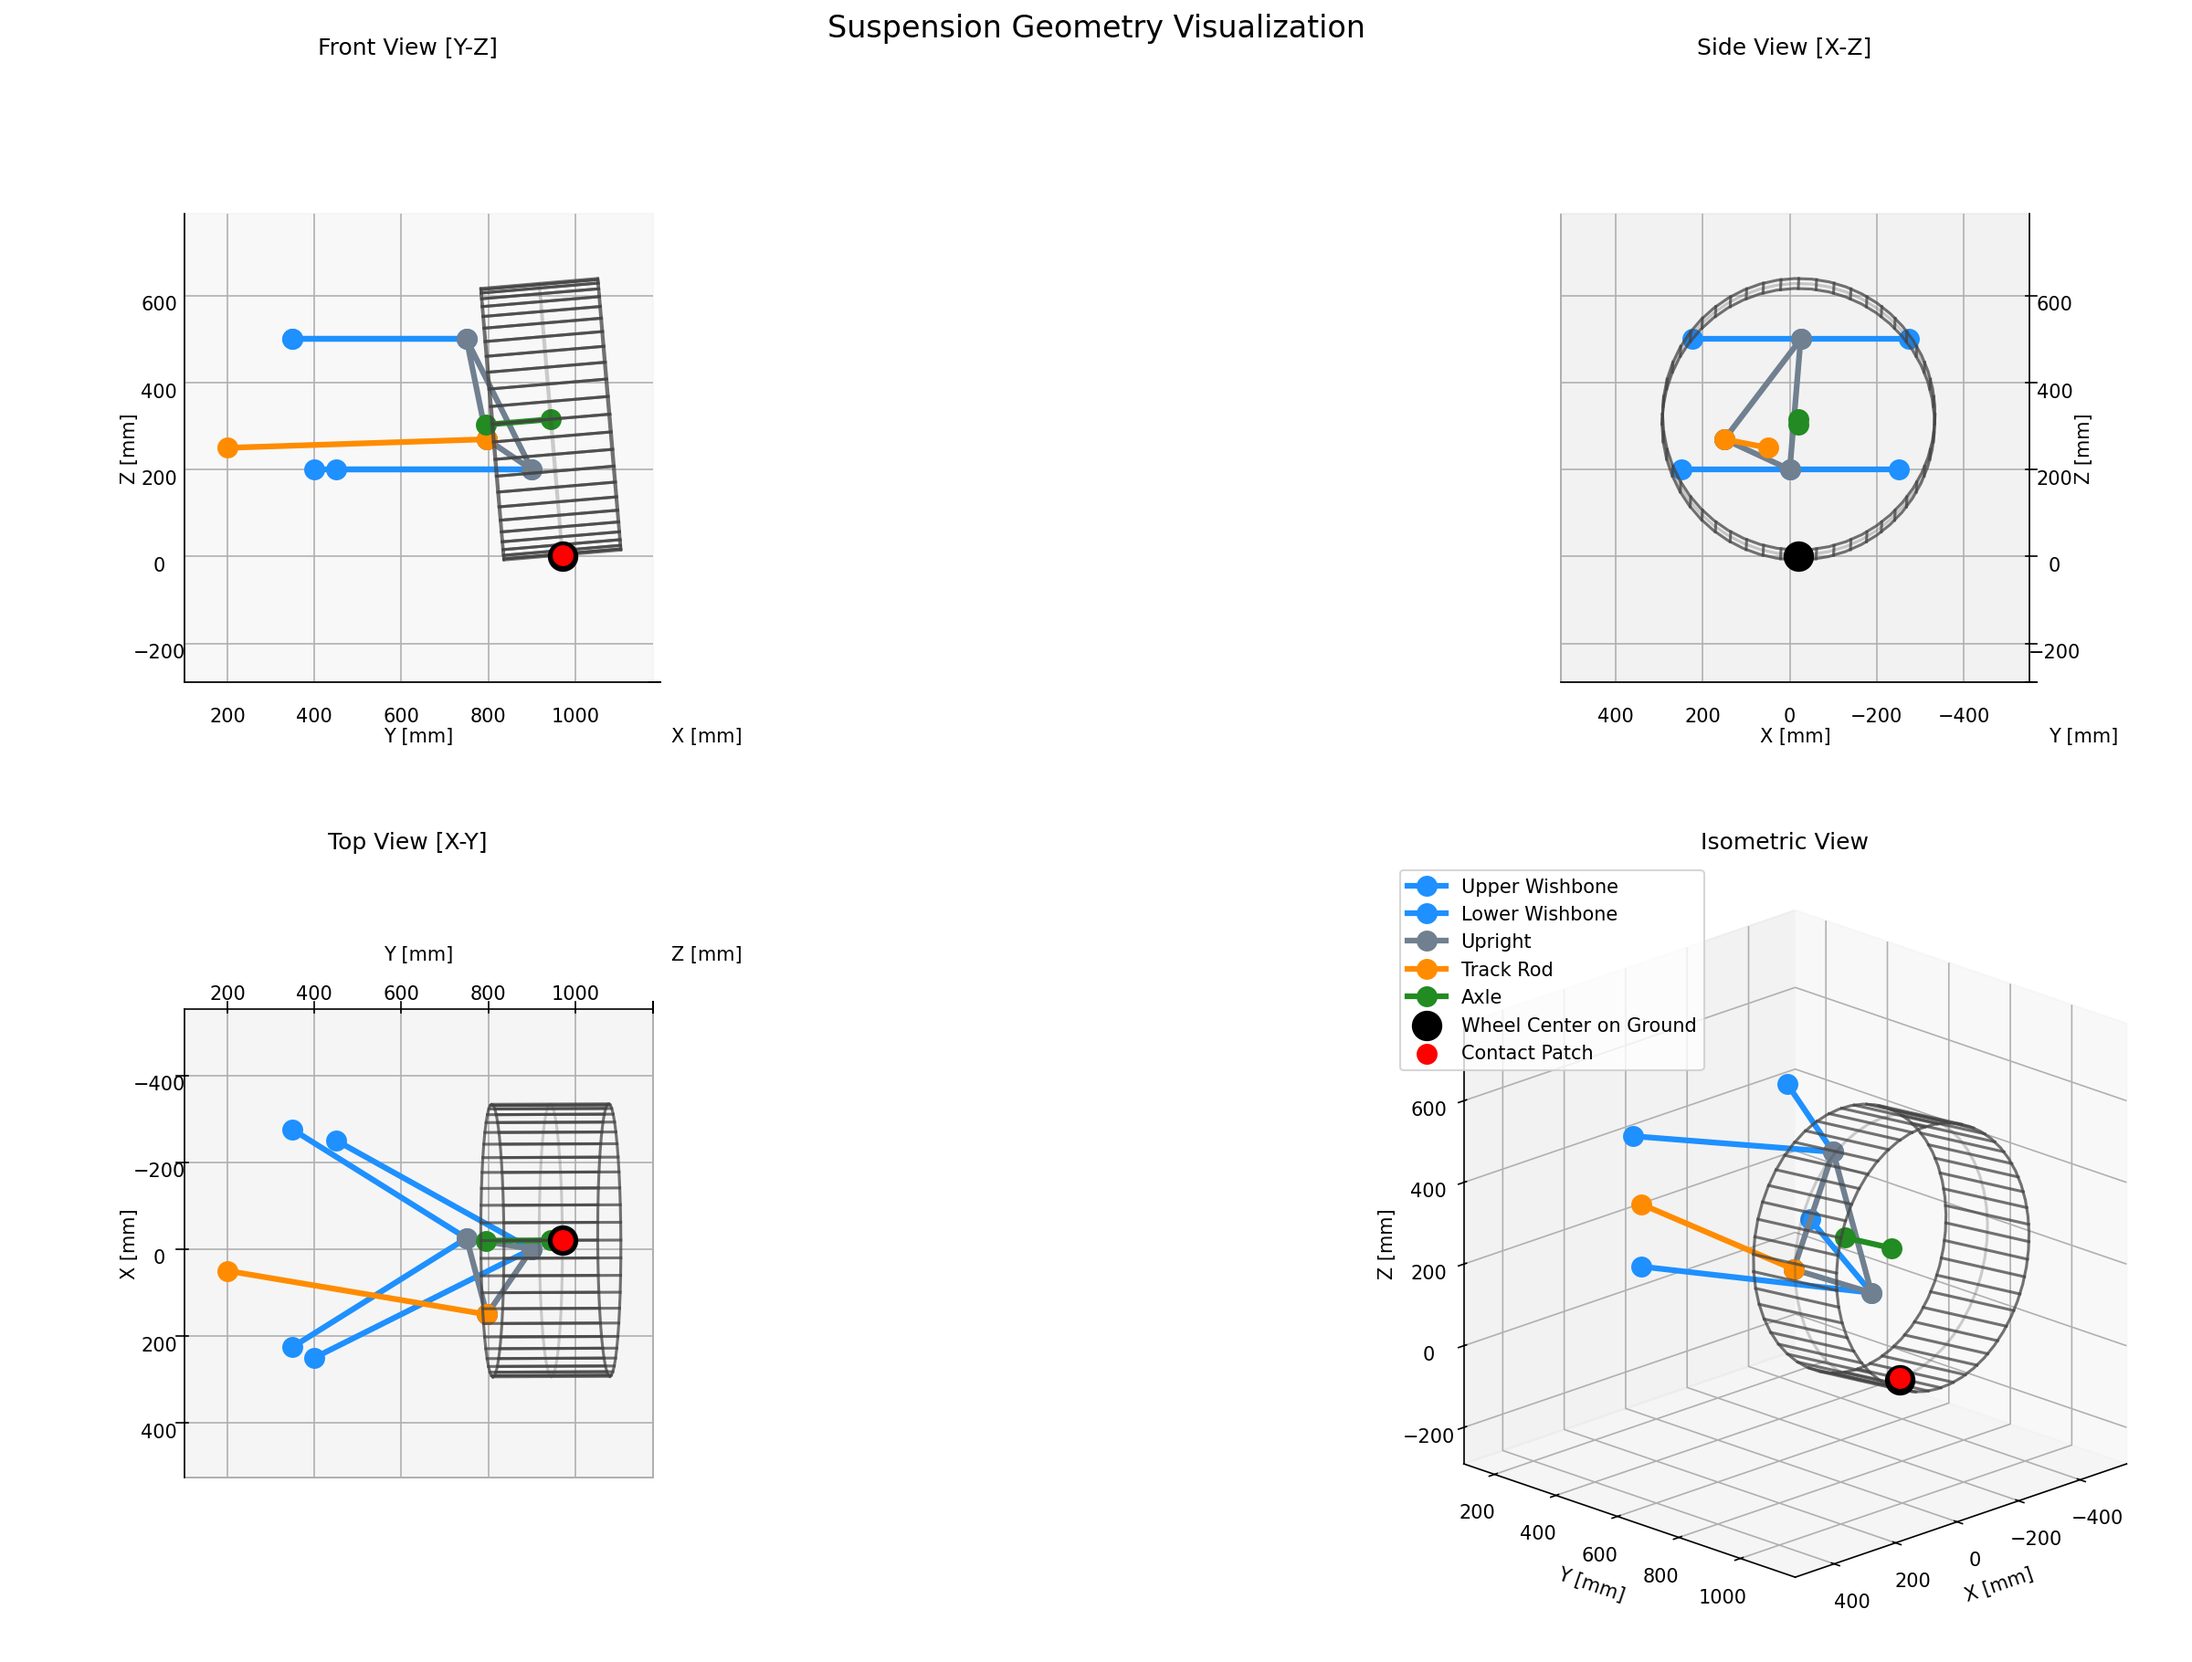
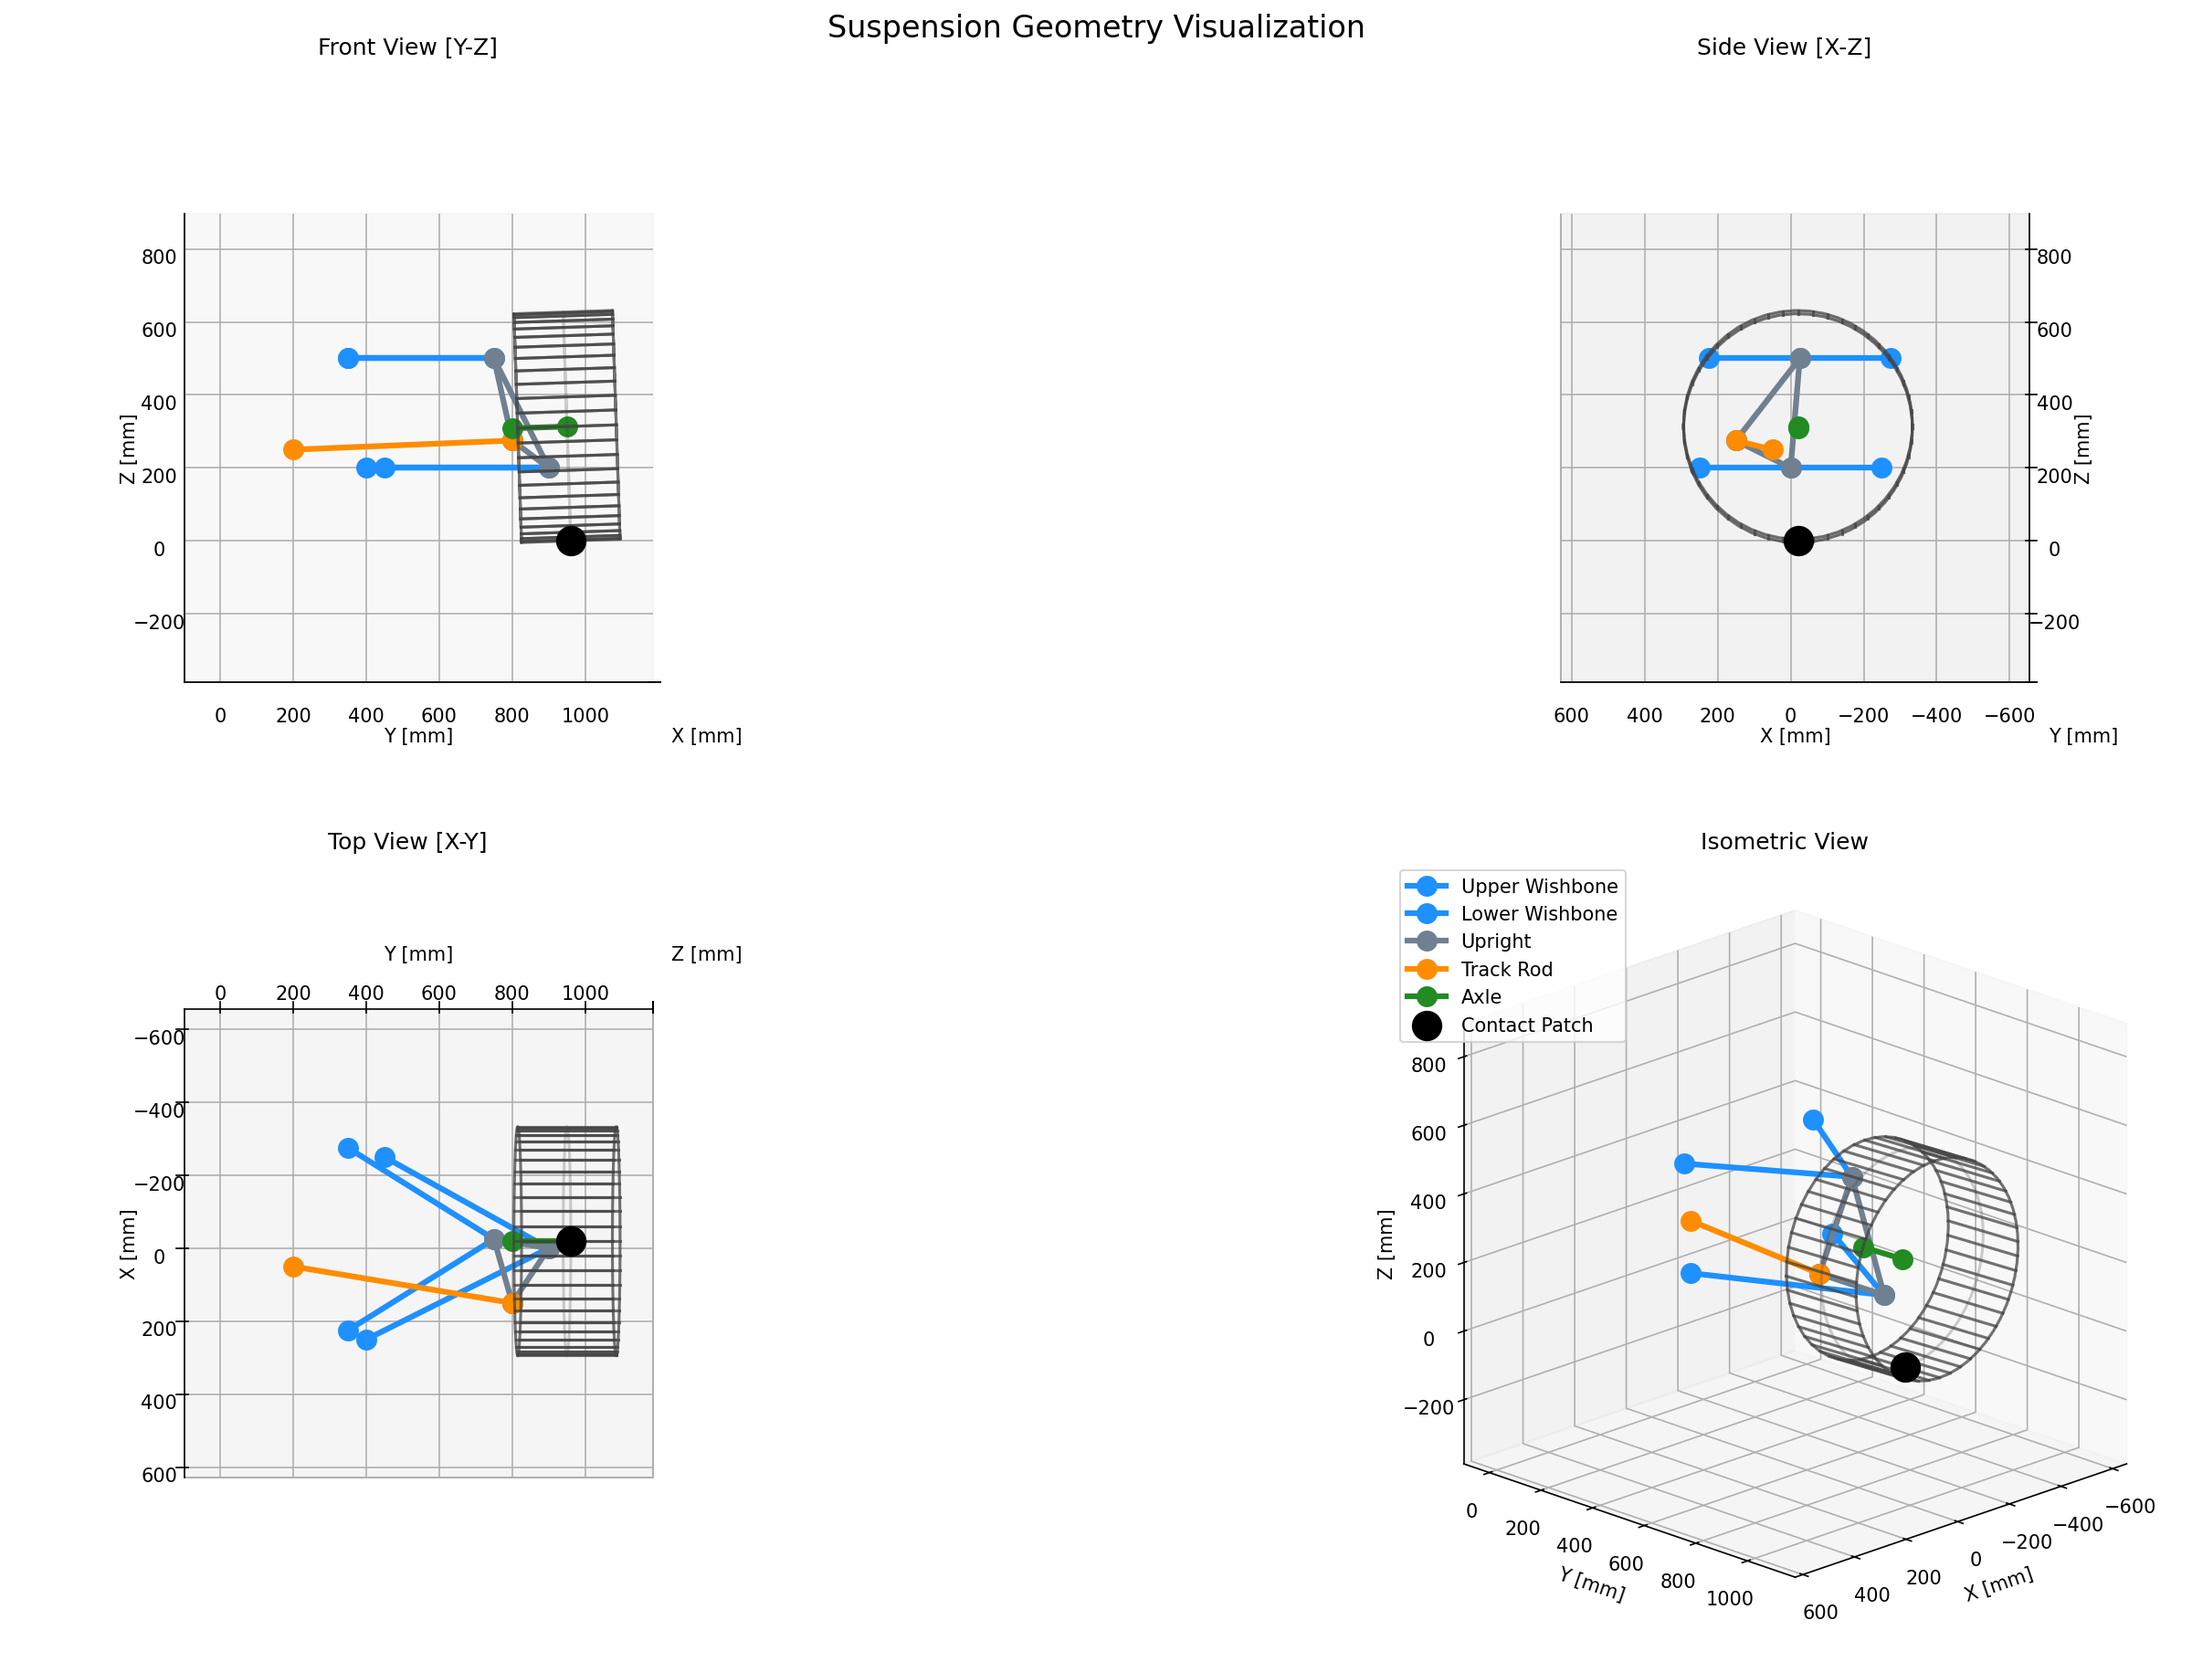
README updates. (#54)

diff --git a/src/kinematics/visualization/plots.py b/src/kinematics/visualization/plots.py
@@ -195,19 +195,6 @@ def plot_suspension_on_axis(
     # Draw the wheel.
     visualizer.draw_wheel(ax, positions)
 
-    # Add contact patch center if it exists.
-    if PointID.CONTACT_PATCH_CENTER in positions:
-        contact_pt = positions[PointID.CONTACT_PATCH_CENTER]
-        ax.scatter(
-            contact_pt[0],
-            contact_pt[1],
-            contact_pt[2],
-            color="red",
-            s=100,
-            marker="o",
-            label="Contact Patch" if show_labels else None,
-        )
-
 
 def create_four_view_plot(
     state: SuspensionState,

diff --git a/src/kinematics/suspensions/double_wishbone.py b/src/kinematics/suspensions/double_wishbone.py
@@ -379,7 +379,7 @@ class DoubleWishboneSuspension(Suspension):
             LinkVisualization(
                 points=[PointID.CONTACT_PATCH_CENTER],
                 color="black",
-                label="Contact Patch Center",
+                label="Contact Patch",
                 linewidth=0.0,
                 marker="o",
                 markersize=15.0,

diff --git a/README.md b/README.md
@@ -16,12 +16,14 @@ The tool is built around a numerical solver that determines the unique positions
 
 ## Features
 
-- **Geometric Constraint Solver**: Uses a numerical approach (Levenberg-Marquardt) to solve for the kinematic state of the system based on geometric constraints.
-- **Parametric Sweeps**: Simulate suspension motion by sweeping through a range of inputs, such as vertical wheel travel and steering rack displacement.
-- **Template-Based Suspension Models**: Define suspension geometries using templates (currently double wishbone only) with simple YAML configuration files.
-- **Derived Points System**: A dependency-aware system for calculating the position of non-kinematic points (like wheel centers) based on the solved positions of core hard points.
-- **Data Export**: Save simulation results in wide-format CSV or Apache Parquet files for further analysis.
-- **Visualization**: Generate static plots of the design condition and create MP4/GIF animations of sweep motions.
+- Geometric Constraint Solver: Uses a numerical approach (Levenberg-Marquardt) with analytical Jacobians to solve for the kinematic state of the system based on geometric constraints.
+- Parametric Sweeps: Simulate suspension motion by sweeping through a range of inputs, such as vertical wheel travel and steering rack displacement.
+- Template-Based Suspension Models: Define suspension geometries using templates (currently double wishbone only) with simple YAML configuration files.
+- Camber Shim Simulation: Model outboard camber shim configurations to simulate shimmed ball joint offsets.
+- Derived Points System: A dependency-aware system for calculating the position of non-kinematic points (like wheel centers) based on the solved positions of core hard points.
+- Suspension Metrics: Computes camber, caster, toe, kingpin inclination (KPI), scrub radius, mechanical trail, and side-view/front-view instant centres from the solved geometry.
+- Data Export: Save simulation results in wide-format CSV or Apache Parquet files for further analysis.
+- Visualization: Generate static plots of the design condition and create MP4/GIF animations of sweep motions.
 
 ## How it works
 
@@ -104,14 +106,10 @@ This command will generate both a Parquet data file and an MP4 animation of the 
 uv run kinematics sweep --geometry tests/data/geometry.yaml --sweep tests/data/sweep.yaml --out results.parquet --animation-out animation.mp4
 ```
 
-```bash
-kinematics sweep --geometry tests/data/geometry.yaml --sweep tests/data/sweep.yaml --out results.parquet --animation-out animation.mp4
-```
-
 This will produce a video like the one below, showing the suspension articulating through a range of bump, droop, and rack travel.
 
 <p align="center">
-  <img src="/images/anim.gif" alt="Kinematic Sweep Animation" width="80%">
+  <img src="/images/animation.gif" alt="Kinematic Sweep Animation" width="80%">
   <br>
   <em>Animation of a full kinematic sweep.</em>
 </p>
